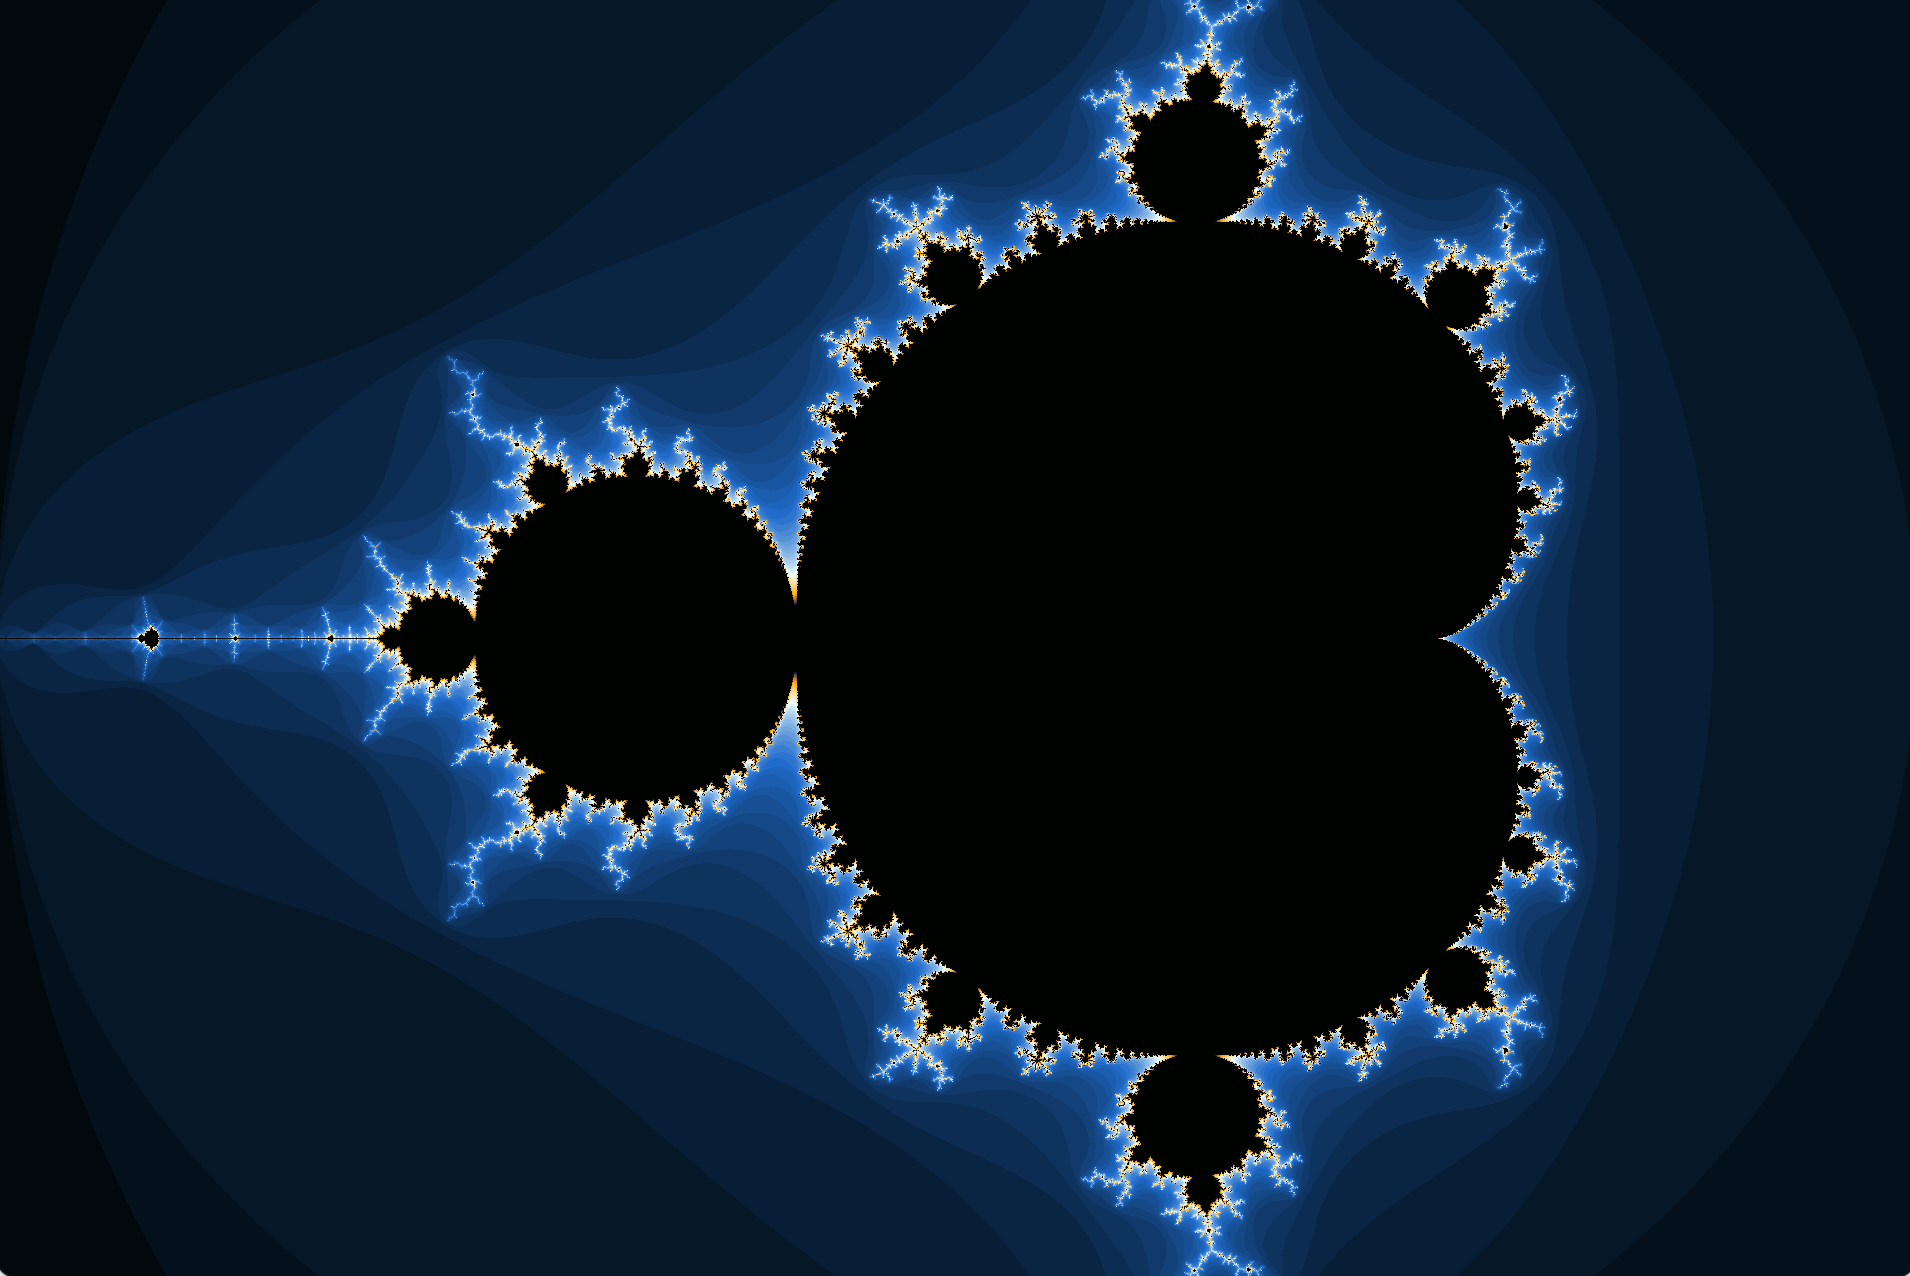
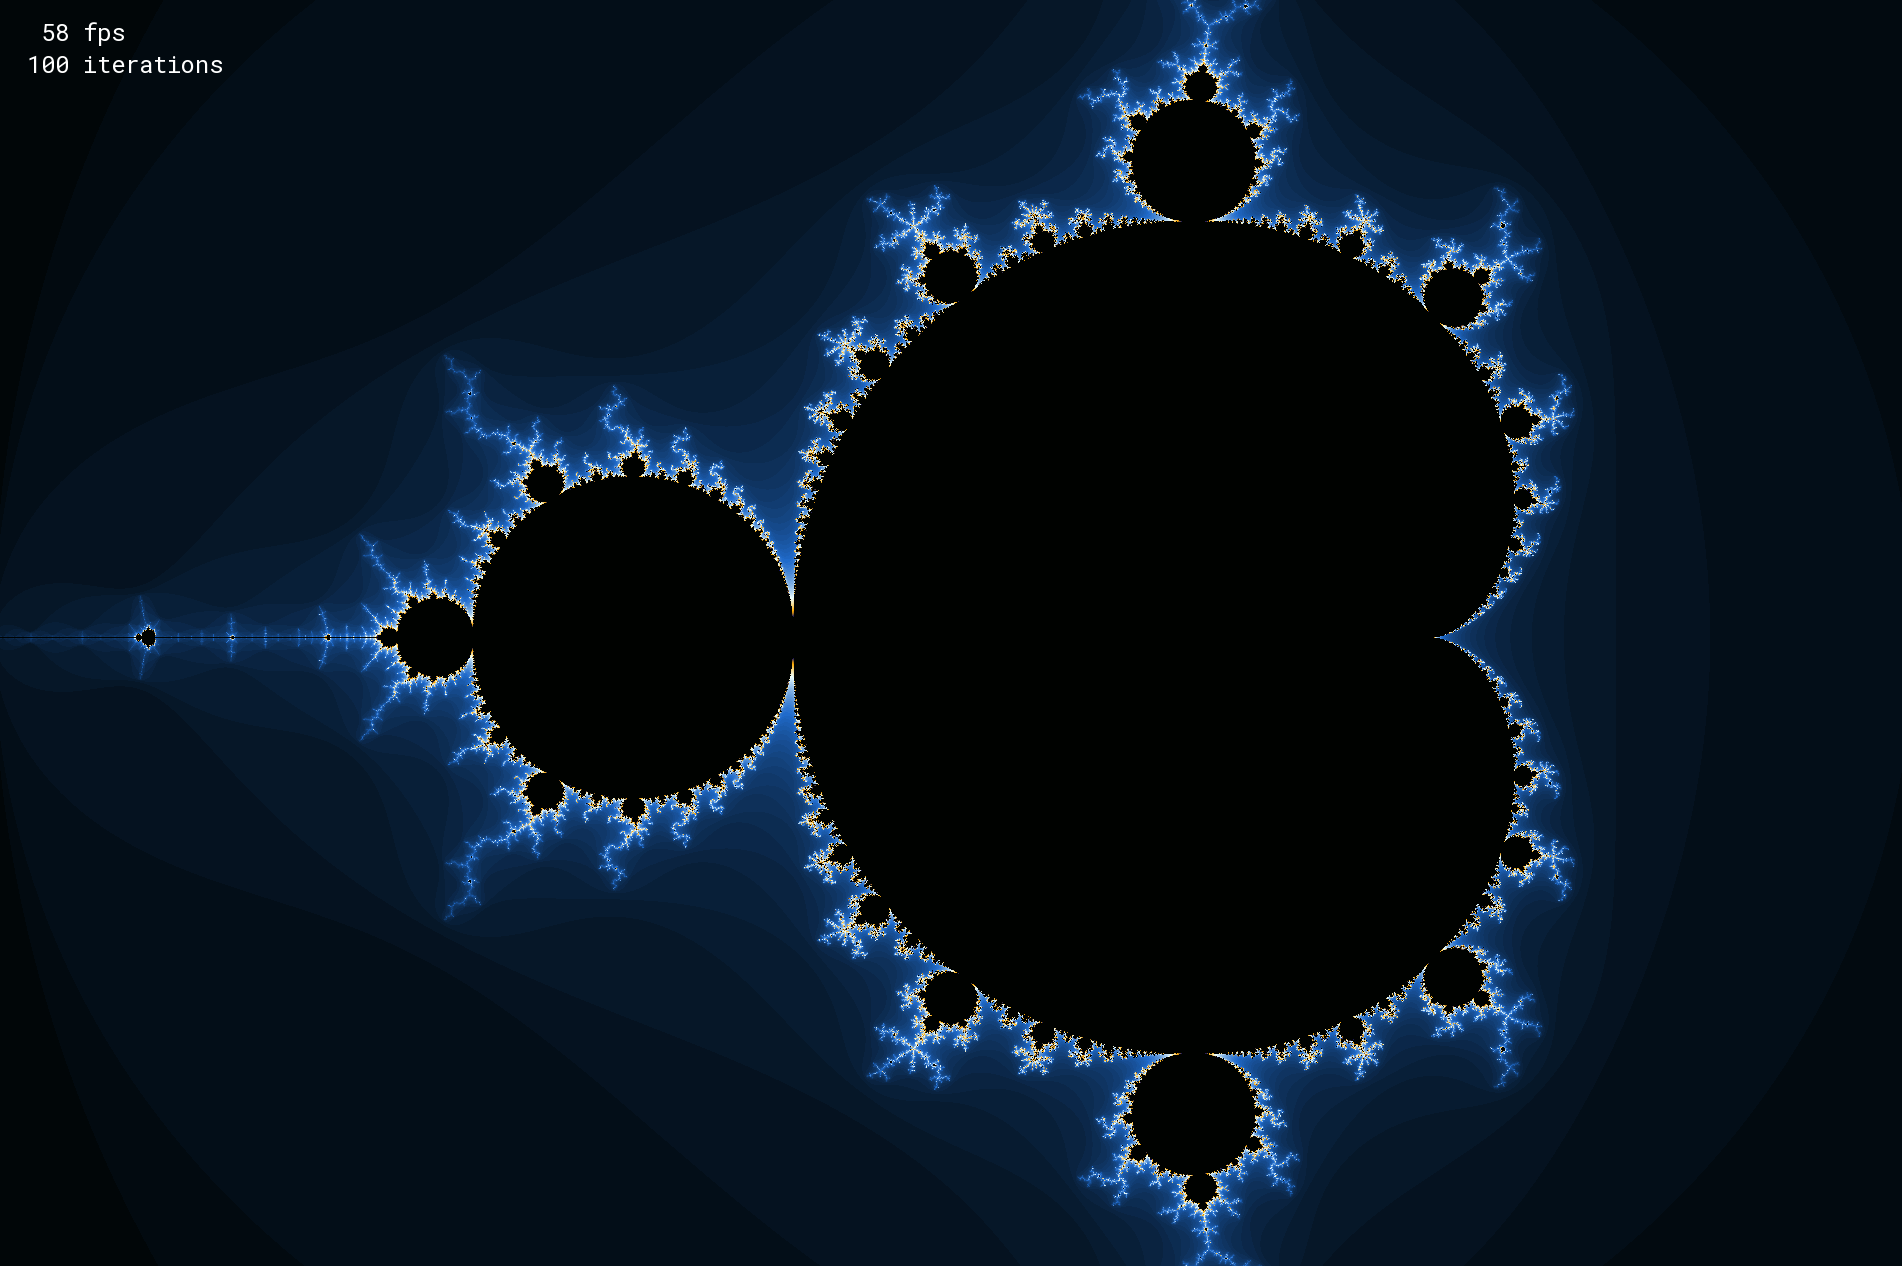
Changed text output error and added fps counter

Changed region(s): [[0.0, 0.0, 0.8686, 1.0], [0.0, 0.0, 0.1241, 0.0616]]

diff --git a/src/Mandelbrot.cpp b/src/Mandelbrot.cpp
@@ -2,7 +2,9 @@
 #include "complex.h"
 #include "mathIn.h"
 
+#include <iomanip>
 #include <iostream>
+#include <sstream>
 
 Mandelbrot::Mandelbrot()
 {
@@ -18,9 +20,12 @@ Mandelbrot::Mandelbrot()
     text.setFont(font1);
     text.setCharacterSize(TEXT_SIZE);
     text.setFillColor(TEXT_COLOR);
+    text.setPosition({20,20});
 
     // Coloring
     max_color = colors.size()-1;
+
+    clock = sf::Clock();
 }
 
 int Mandelbrot::run()
@@ -34,7 +39,7 @@ int Mandelbrot::run()
         window->clear();
 
         paint();
-//        setText();
+        setText();
 
         window->display();
     }
@@ -52,13 +57,13 @@ void Mandelbrot::control(sf::Event e)
         else if(e.type == sf::Event::KeyPressed)
         {
             painted = false;
-            if(e.key.code == sf::Keyboard::Up)
+            if(e.key.code == sf::Keyboard::RBracket)
             {
-                iterations+=10;
+                iterations+=25;
             }
-            else if(e.key.code == sf::Keyboard::Down & iterations > 10)
+            else if(e.key.code == sf::Keyboard::LBracket & iterations > 25)
             {
-                iterations -= 10;
+                iterations -= 25;
             }
 
                 // Up/Down
@@ -169,9 +174,11 @@ void Mandelbrot::paint()
 
 void Mandelbrot::setText()
 {
-    char str[100];
-    sprintf(str, "iterations : %d\nzoom : x%3.2lf\nmaxRe : %lf minRe : %lf\nmaxIm : %lf minIm : %lf",
-            iterations, zoom, maxRe, minRe, maxIm, minIm);
-    text.setString(str);
+    auto textBuilder = std::ostringstream();
+
+    textBuilder << std::setw(4) << 1'000'000 / clock.restart().asMicroseconds() << " fps\n";
+    textBuilder << std::setw(4) << iterations << " iterations\n";
+
+    text.setString(textBuilder.str());
     window->draw(text);
 }

diff --git a/src/complex.cpp b/src/complex.cpp
@@ -1,36 +1,36 @@
 #include "complex.h"
 #include <math.h>
 
-complex::complex(double a, double b)
+complex::complex(double r, double im)
 {
-    this->a = a;
-    this->b = b;
+    this->r = r;
+    this->im = im;
 }
 
 void complex::add(complex c)
 {
-    this->a += c.getA();
-    this->b += c.getB();
+    this->r += c.getA();
+    this->im += c.getB();
 }
 
 double complex::absolute()
 {
-    return sqrt((a*a) + (b*b));
+    return sqrt((r*r) + (im*im));
 }
 
 void complex::square()
 {
-    double temp = (a*a)-(b*b);
-    this->b = (a*b) + (b*a);
-    this->a = temp;
+    double temp = (r*r)-(im*im);
+    this->im = (r*im) + (im*r);
+    this->r = temp;
 }
 
 double complex::getA()
 {
-    return this->a;
+    return this->r;
 }
 
 double complex::getB()
 {
-    return this->b;
+    return this->im;
 }

diff --git a/src/Mandelbrot.h b/src/Mandelbrot.h
@@ -9,17 +9,18 @@
 class Mandelbrot
 {
 private:
-    const int MAX_FPS = 30;
+    const int MAX_FPS = 60;
 
-    const int WIDTH = 960;
-    const int HEIGHT = 640;
+    const int WIDTH = 1920;
+    const int HEIGHT = 1280;
 
-    const std::string FONT_PATH = "font/poppins.ttf";
-    const int TEXT_SIZE = 15;
+    const int TEXT_SIZE = 24;
     const sf::Color TEXT_COLOR = sf::Color::White;
 
     bool painted = false;
     int iterations = 100;
+
+    sf::Clock clock;
 
     double minRe = -2, maxRe = 1;
     double minIm = -1, maxIm = 1;

diff --git a/src/complex.h b/src/complex.h
@@ -5,10 +5,10 @@
 class complex
 {
 private:
-    double a; // real
-    double b; // imaginary
+    double r; // real
+    double im; // imaginary
 public:
-    explicit complex(double a, double b);
+    explicit complex(double r, double im);
     void add(complex c);
     double absolute();
     void square();
